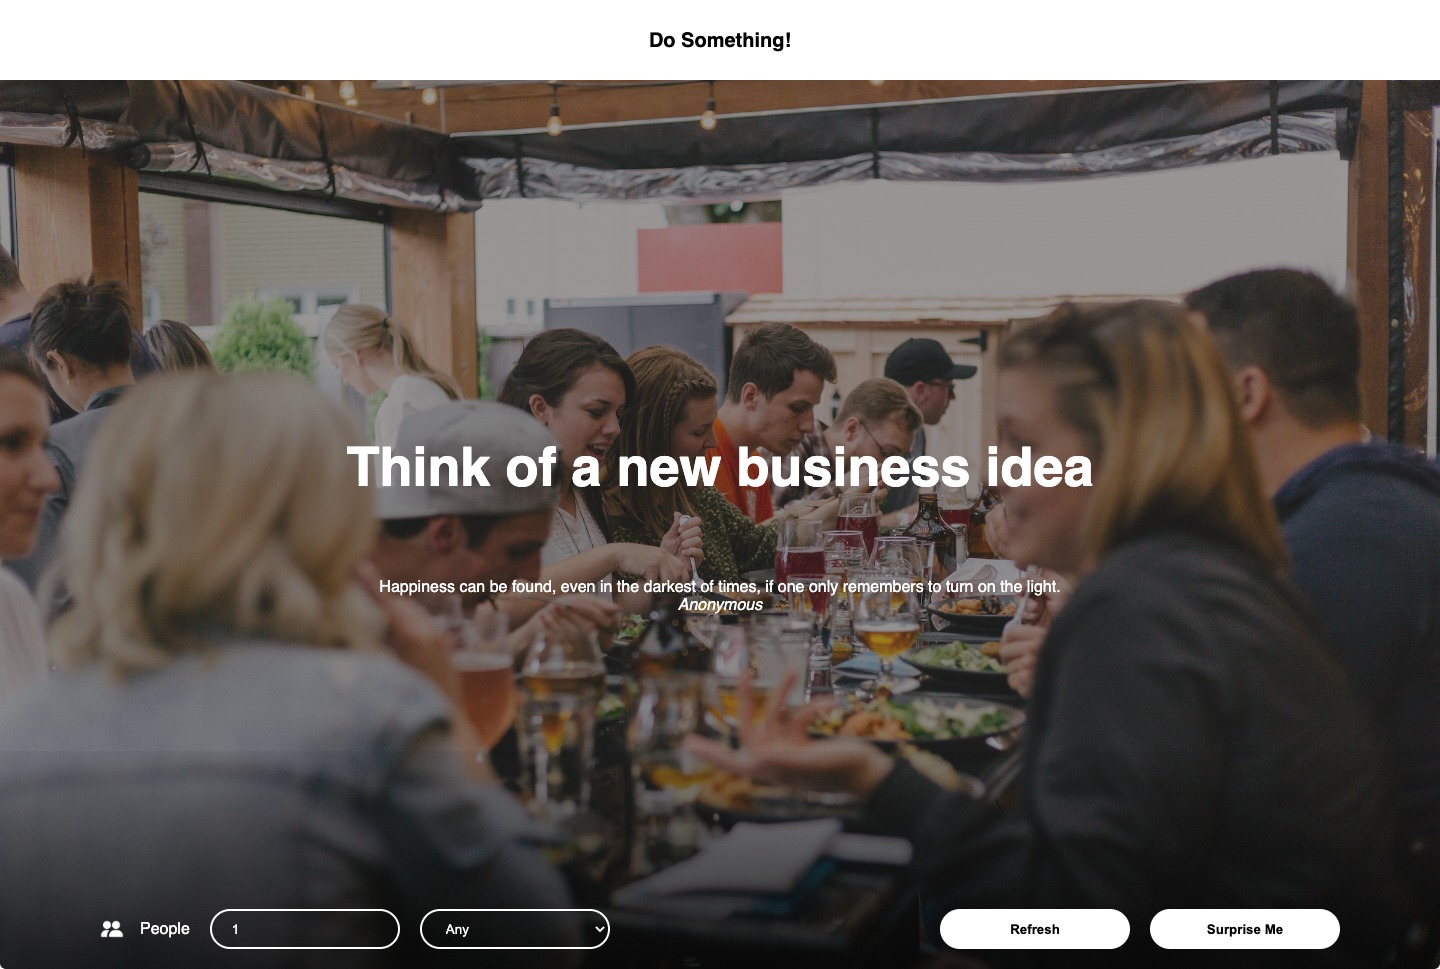
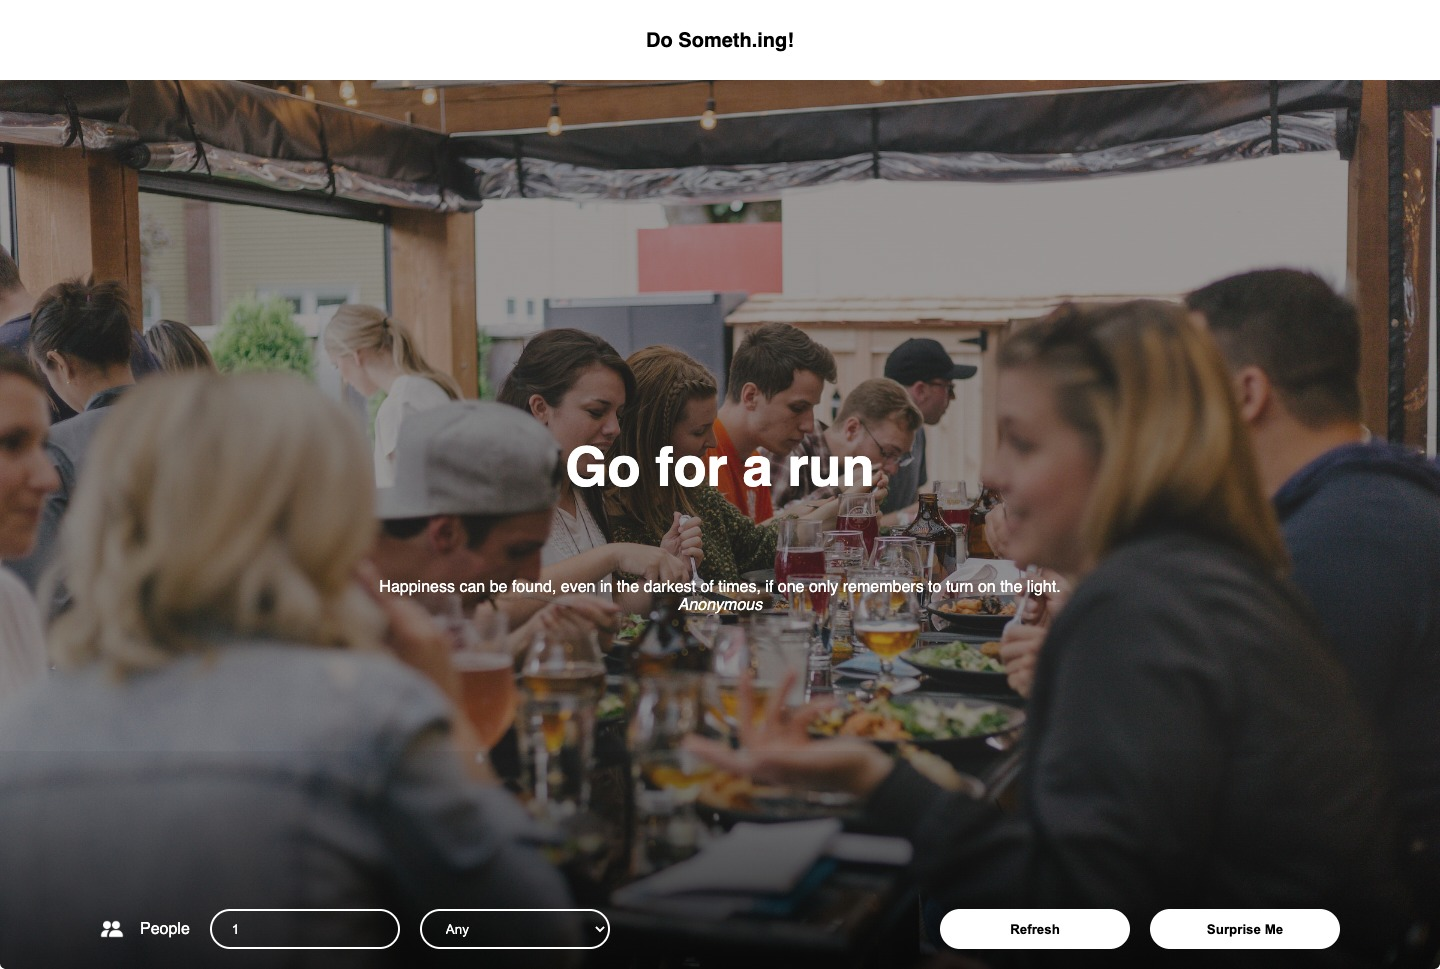
Add tech stack info to readme

Changed region(s): [[0.25, 0.4644, 0.7812, 0.5263], [0.4375, 0.031, 0.5625, 0.0619]]

diff --git a/index.html b/index.html
@@ -5,13 +5,13 @@
     <meta http-equiv="X-UA-Compatible" content="IE=edge" />
     <meta name="viewport" content="width=device-width, initial-scale=1.0" />
     <link rel="stylesheet" href="./styles/styles.css" />
-    <title>Do Something - Your Cure to Boredom</title>
+    <title>Do Someth.ing - Your Cure to Boredom</title>
   </head>
   <body>
     <header class="header">
       <nav class="navbar">
         <a href="/" class="navbar__link">
-          <h4 class="navbar__title">Do Something!</h4>
+          <h4 class="navbar__title">Do Someth.ing!</h4>
         </a>
       </nav>
     </header>

diff --git a/README.md b/README.md
@@ -8,7 +8,7 @@
 
 ## Summary
 
-DoSometh.ing is a single-page website that recommends activities based on a chosen category and a number of people.
+DoSometh.ing is a single-page website that recommends activities based on a given number of people and category.
 
 ## Background
 
@@ -37,3 +37,13 @@ When filter value changes, a new suggestion is generated. If a suggestion isn’
 - **Refresh:** Generates a new suggestion for a given amount of people and/or category.
 
 - **Surprise me:** Clears filters and generates a random suggestion
+
+---
+
+## Tech Stack
+
+- HTML 5
+- CSS 3
+- Sass
+- Javascript
+- Axios Library
